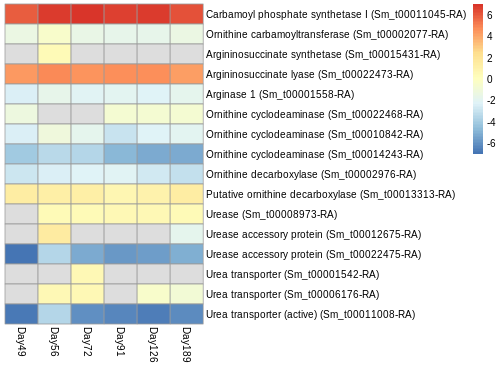
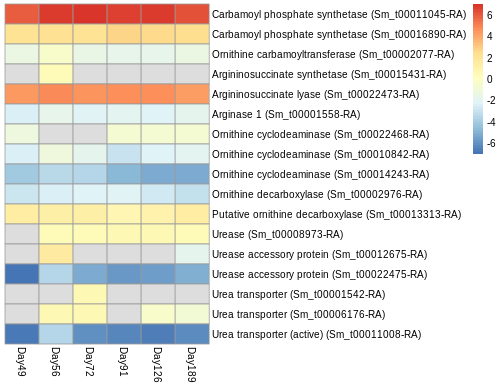
Update urea cycle heatmaps

diff --git a/10_FinalResults/README.md b/10_FinalResults/README.md
@@ -46,9 +46,20 @@ A few genes appear to be **up**regulated, albeit very slightly
 * Darkness
 * Anoxia
 
-
-
 Parts of the cycle are upregulated at all times, some experience an uptick, others are downregulated
+* Most obviously upregulated (esp. in GF04):
+  * Carbamoyl phosphate synthetase (Sm_t00011045-RA)
+  * Carbamoyl phosphate synthetase (Sm_t00016890-RA)
+    * Accumulation of carbamoyl phosphate?
+      * Synthesis of pyrimidines?
+  * Argininosuccinate lyase (Sm_t00022473-RA)
+    * Accumulation of arginine?
+  * Putative ornithine decarboxylase (Sm_t00013313-RA)
+    * Accumulation of polyamines?
+* Most obviously downregulated (esp. in GF04):
+  * Urease accessory protein (Sm_t000022475-RA)
+  * Active urea transporter (Sm_t00011008-RA)
+
 * What is the consequence of this regarding accumulation of intermediates?
 
 | R05 | GF04 |
